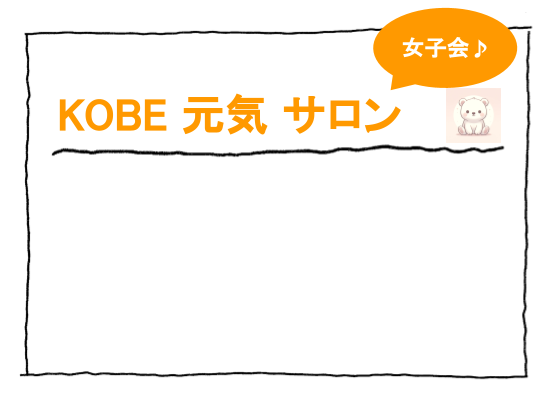
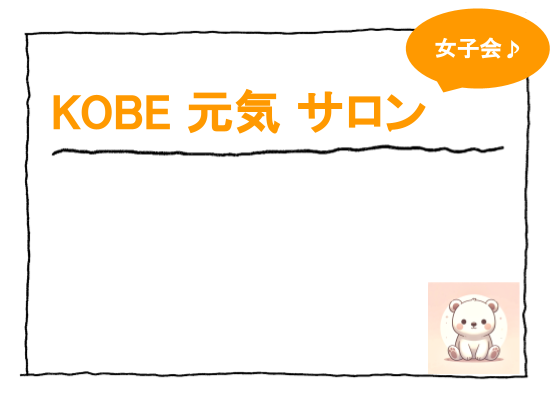
change picture

Changed region(s): [[0.0914, 0.0, 1.0, 0.3636], [0.7616, 0.697, 0.9444, 0.9697]]

diff --git a/kgs_name_plate.py b/kgs_name_plate.py
@@ -43,8 +43,8 @@ def center_crop_to_square(img, size):
 
 def process_image(base_img, img1, name1,name2):
     base_img = base_img.copy()
-    img1 = center_crop_to_square(img1, 200)
-    base_img.paste(img1, (50, 160))
+    img1 = center_crop_to_square(img1, 190)
+    base_img.paste(img1, (50, 165))
     
     # 名前を描画するためのフォントとサイズを設定
     font1 = ImageFont.truetype("NotoSansJP-Regular.ttf", 35) 
@@ -52,8 +52,8 @@ def process_image(base_img, img1, name1,name2):
     draw = ImageDraw.Draw(base_img)
     
     # 名前を画像上に配置する位置を設定（x, y座標）
-    text_position1 = (265, 250)
-    text_position2 = (265, 200)  # ここはカードのデザインに合わせて調整してください
+    text_position1 = (265, 195)
+    text_position2 = (265, 160)  # ここはカードのデザインに合わせて調整してください
     
     # 黒色でテキストを描画
     draw.text(text_position2, name2, font=font2, fill="Orange")
